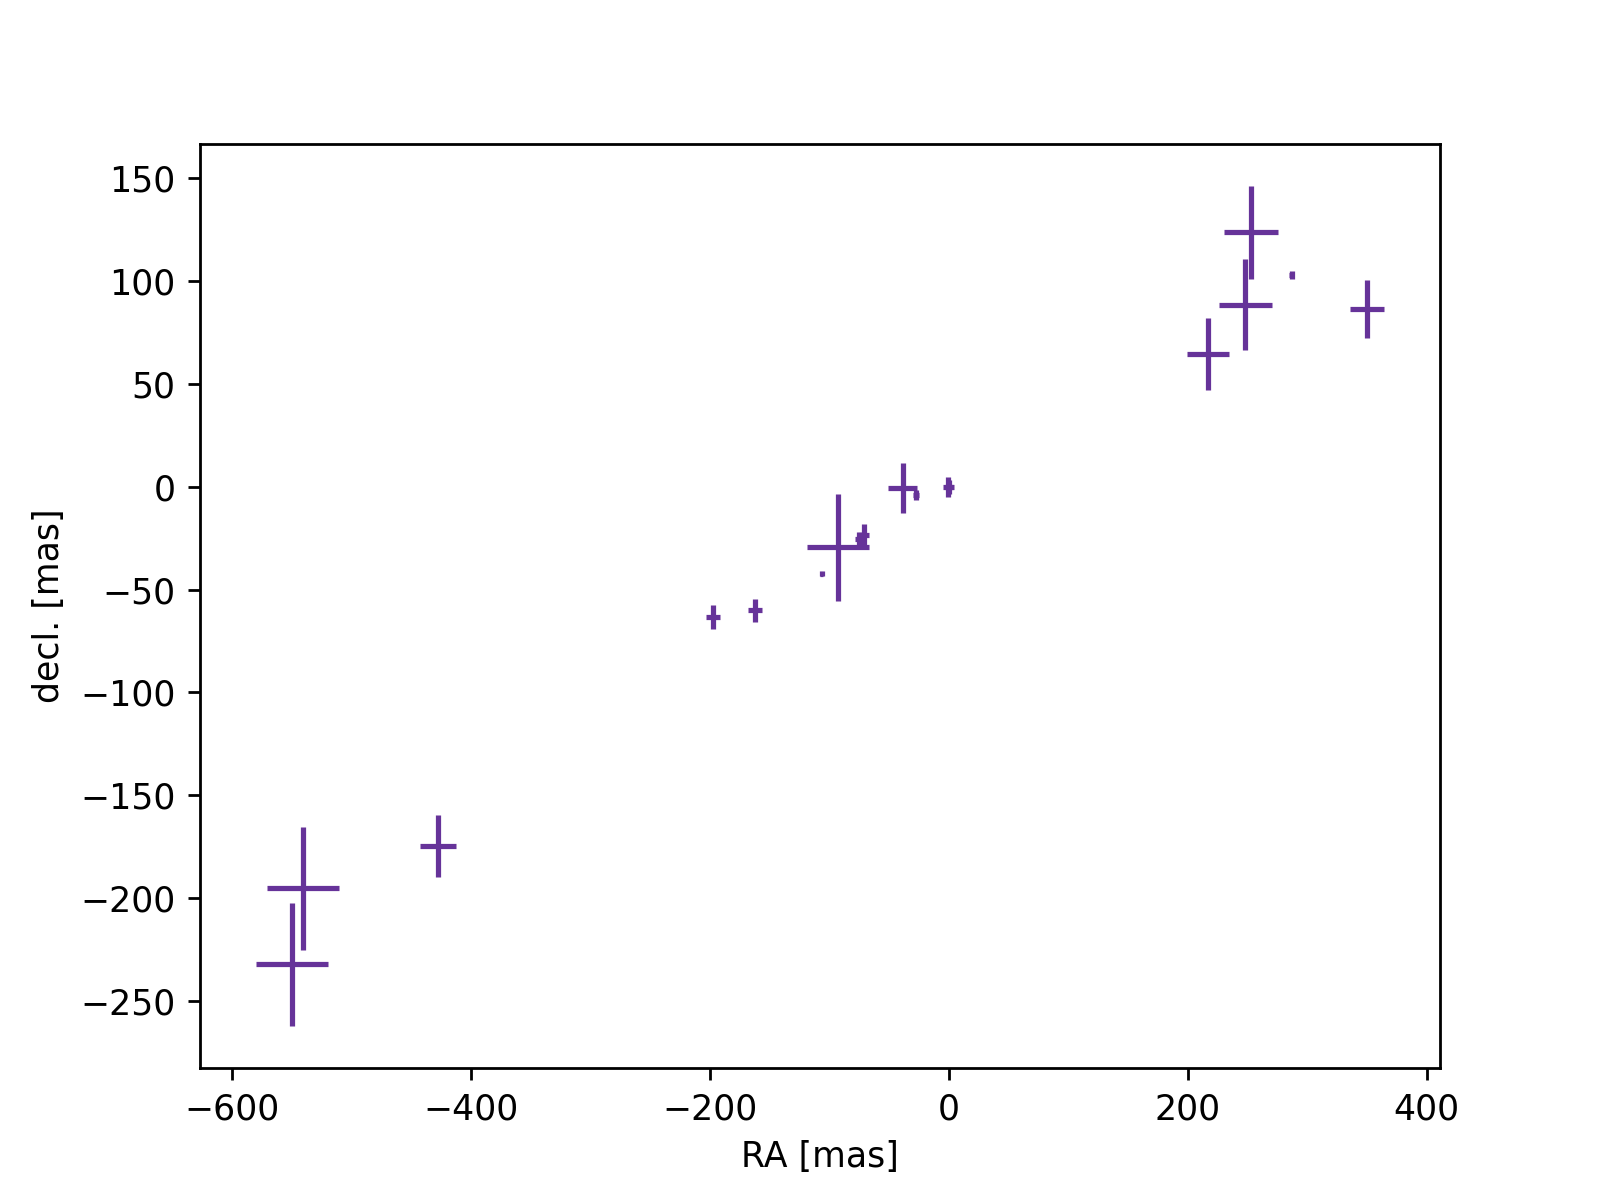
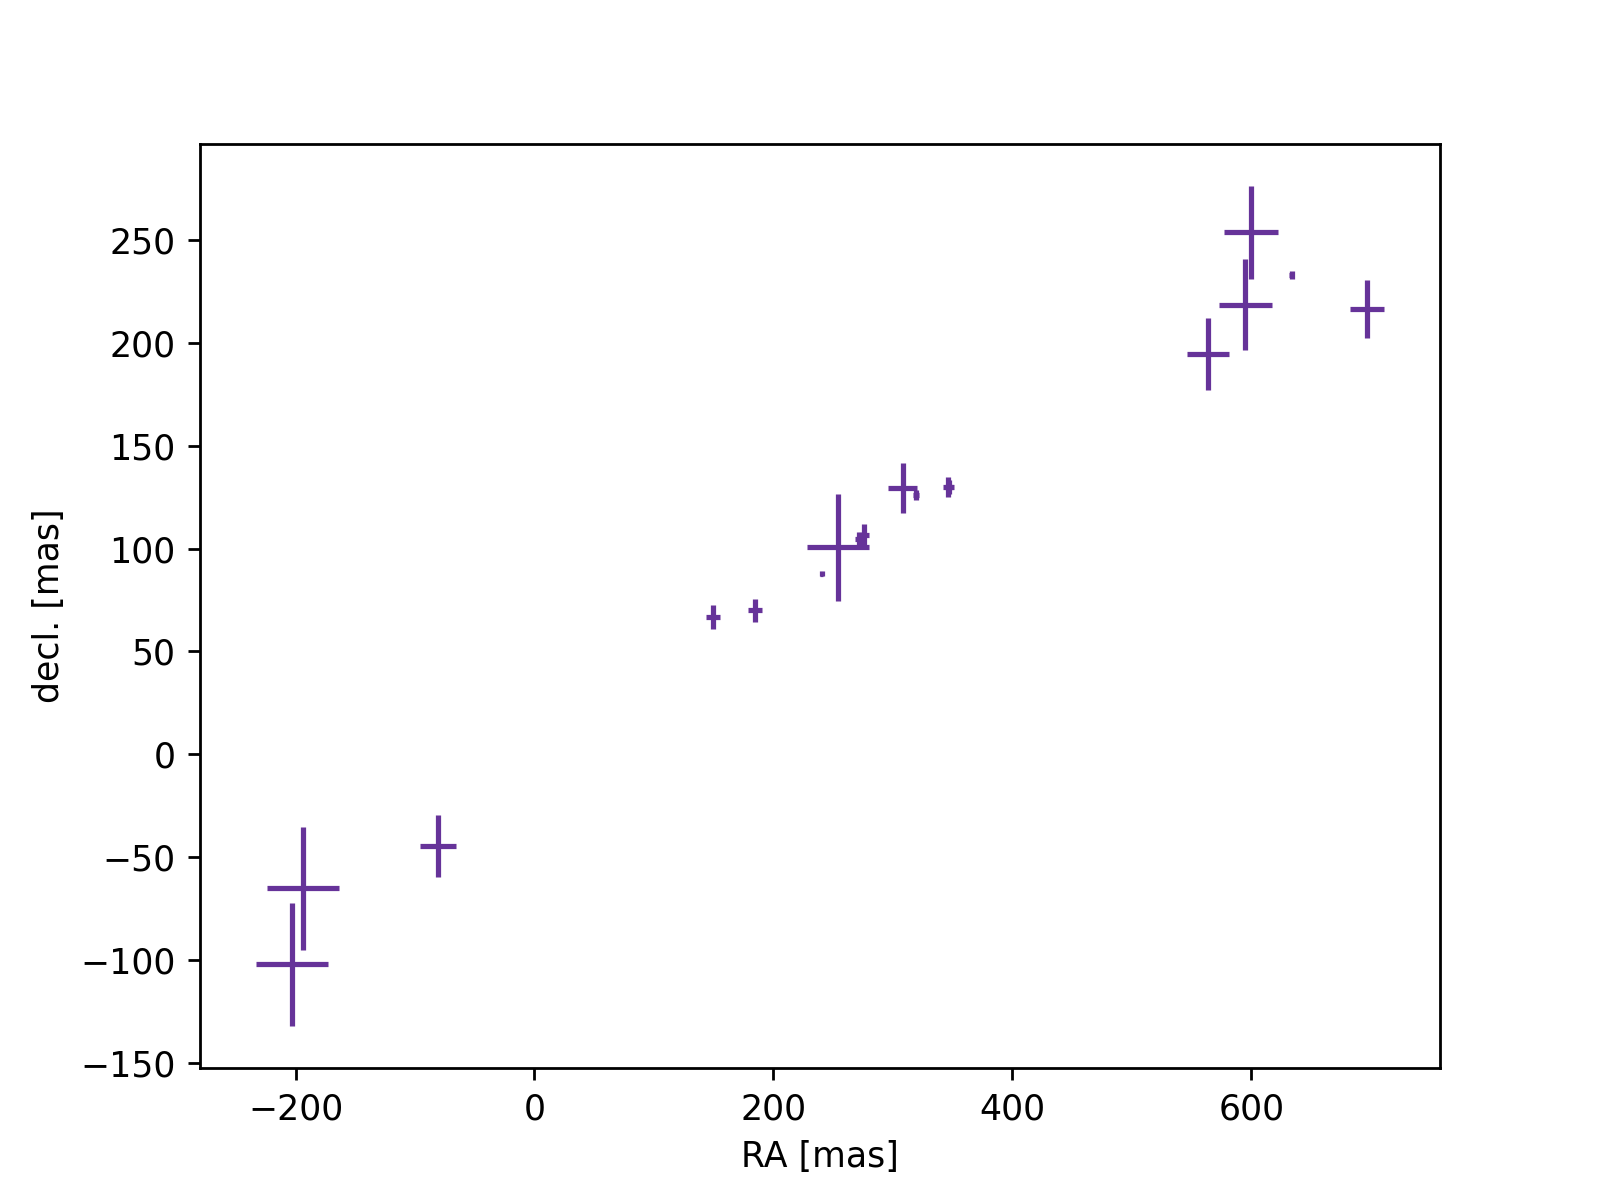
first attempt at running the fit!

diff --git a/fit_orbit.py b/fit_orbit.py
@@ -1,6 +1,12 @@
 import os.path
-import orbitize
-from orbitize import read_input, hipparcos, gaia, system, priors, sampler
+from orbitize import read_input, hipparcos, system, priors, sampler
+
+
+"""
+Set some options for the fit
+"""
+
+fit_planet = False  # if True, fit for planet parameters
 
 input_file = os.path.join("data/data.csv")
 data_table = read_input.read_file(input_file)
@@ -8,6 +14,8 @@ data_table = read_input.read_file(input_file)
 num_secondary_bodies = 1  # number of planets/companions orbiting your primary
 hip_num = "027989"  # Betelgeuse
 IAD_file = "data/H{}.d".format(hip_num)
+
+# the angular size of Beetle is 55 mas, and the Hipparcos jitter is 0.15 mas, for reference
 
 beetle_Hip = hipparcos.HipparcosLogProb(IAD_file, hip_num, num_secondary_bodies)
 
@@ -32,6 +40,11 @@ beetle_system = system.System(
     fitting_basis="Period",
 )
 
+# make sure orbitize! knows to fit for the proper motion and parallax
+assert beetle_system.pm_plx_predictor is not None
+
+# make sure orbitize! correctly figures out which epochs are absolute astrometry
+assert len(beetle_system.stellar_astrom_epochs) == 18
 """
 Change priors
 """
@@ -40,30 +53,54 @@ Change priors
 plx_index = beetle_system.param_idx["plx"]
 beetle_system.sys_priors[plx_index] = priors.UniformPrior(7.6 - 5.0, 7.6 + 5.0)
 
-# set uniform primary mass prior
+
 m0_index = beetle_system.param_idx["m0"]
-beetle_system.sys_priors[m0_index] = priors.UniformPrior(
-    15, 20
-)  # big range, lots of unc for Betelgeuse
-
-# set log-uniform secondary mass prior
 m1_index = beetle_system.param_idx["m1"]
-beetle_system.sys_priors[m1_index] = priors.LogUniformPrior(0.1, 10)
-
-# set period prior between 3 and 10 years
 p1_index = beetle_system.param_idx["per1"]
-beetle_system.sys_priors[p1_index] = priors.UniformPrior(3, 10)
+e1_index = beetle_system.param_idx["ecc1"]
+pan1_index = beetle_system.param_idx["pan1"]
+aop1_index = beetle_system.param_idx["aop1"]
+inc1_index = beetle_system.param_idx["inc1"]
+tau1_index = beetle_system.param_idx["tau1"]
 
+
+if fit_planet:
+    # set uniform primary mass prior
+    beetle_system.sys_priors[m0_index] = priors.UniformPrior(
+        15, 20
+    )  # big range, lots of unc for Betelgeuse
+
+    # set log-uniform secondary mass prior
+    beetle_system.sys_priors[m1_index] = priors.LogUniformPrior(0.1, 10)
+
+    # set period prior between 3 and 10 years
+    beetle_system.sys_priors[p1_index] = priors.UniformPrior(3, 10)
+
+else:
+    # set the planet parameters so that the planet signal is 0 (i.e. only model the astrometry)
+    beetle_system.sys_priors[m0_index] = 10
+    beetle_system.sys_priors[m1_index] = 0  # test particle secondary
+    beetle_system.sys_priors[p1_index] = 1
+    beetle_system.sys_priors[e1_index] = 0
+    beetle_system.sys_priors[pan1_index] = 0
+    beetle_system.sys_priors[aop1_index] = 0
+    beetle_system.sys_priors[inc1_index] = 0
+    beetle_system.sys_priors[tau1_index] = 0
+
+# print out the priors to make sure everything looks fine
+print(list(zip(beetle_system.labels, beetle_system.sys_priors)))
 
 """
 Run MCMC
 """
-num_threads = 50
-num_temps = 20
-num_walkers = 1000
-num_steps = 10000000  # n_walkers x n_steps_per_walker
-burn_steps = 10000
-thin = 100
+num_threads = 10  # 50
+num_temps = 5  # 20
+num_walkers = 10  # 1000
+n_steps_per_walker = 1_000  # 10_000
+num_steps = num_walkers * n_steps_per_walker
+burn_steps = 1_000  # 10_000
+thin = 1  # 100
+
 
 beetle_sampler = sampler.MCMC(
     beetle_system,
@@ -71,4 +108,4 @@ beetle_sampler = sampler.MCMC(
     num_temps=num_temps,
     num_walkers=num_walkers,
 )
-# beetle_sampler.run_sampler(num_steps, burn_steps=burn_steps, thin=thin)
+beetle_sampler.run_sampler(num_steps, burn_steps=burn_steps, thin=thin)

diff --git a/data/make_orbitize_input.py b/data/make_orbitize_input.py
@@ -8,7 +8,17 @@ import matplotlib.pyplot as plt
 
 """
 Convenience script to convert data from download format to orbitize format.
+
+Note: Hipparcos measurements are given in ICRS frame. Both tables are also
+given in ICRS frame, at epoch J2000. 
+
+
 """
+
+# TODO: convert measurements to offsets from measured pos at 1991.25 (and propagate errors)
+# note that the measurements from both data tables here are reported in J2000, so need to convert them to J1991.25
+
+# TODO: first test that I can recover Harper+ astrometric solution: https://iopscience.iop.org/article/10.1088/0004-6256/135/4/1430
 
 table1 = pd.read_csv(
     "radio_pos_table1.csv",
@@ -58,7 +68,7 @@ n_obs = len(df)
 df_orbitize = DataFrame(
     Time(df["date"].astype("float"), format="decimalyear").mjd, columns=["epoch"]
 )
-df_orbitize["object"] = np.ones_like(df_orbitize["epoch"]).astype(int)
+df_orbitize["object"] = np.zeros_like(df_orbitize["epoch"]).astype(int)
 df_orbitize["ra"] = np.ones_like(df_orbitize["epoch"])
 df_orbitize["dec"] = np.ones_like(df_orbitize["epoch"])
 
@@ -79,11 +89,17 @@ for i in range(n_obs):
     df_orbitize["ra"][i] = float(ra)  # [deg]
     df_orbitize["dec"][i] = float(dec)  # [deg]
 
-# take difference between epoch 0 and convert to mas
-df_orbitize["ra"] = (df_orbitize["ra"] - df_orbitize["ra"][0]) * u.deg.to(
+# take difference between reported Hipparcos position and convert to mas
+
+# read the Hipparcos best-fit solution from the IAD file
+astrometric_solution = pd.read_csv("H027989.d", skiprows=9, sep="\s+", nrows=1)
+hipparcos_alpha0 = astrometric_solution["RAdeg"].values[0]  # [deg]
+hipparcos_delta0 = astrometric_solution["DEdeg"].values[0]  # [deg]
+
+df_orbitize["ra"] = (df_orbitize["ra"] - hipparcos_alpha0) * u.deg.to(
     u.mas, equivalencies=u.dimensionless_angles()
 )
-df_orbitize["dec"] = (df_orbitize["dec"] - df_orbitize["dec"][0]) * u.deg.to(
+df_orbitize["dec"] = (df_orbitize["dec"] - hipparcos_delta0) * u.deg.to(
     u.mas, equivalencies=u.dimensionless_angles()
 )
 df_orbitize["dec_err"] = df["dec_err"].astype(float)
